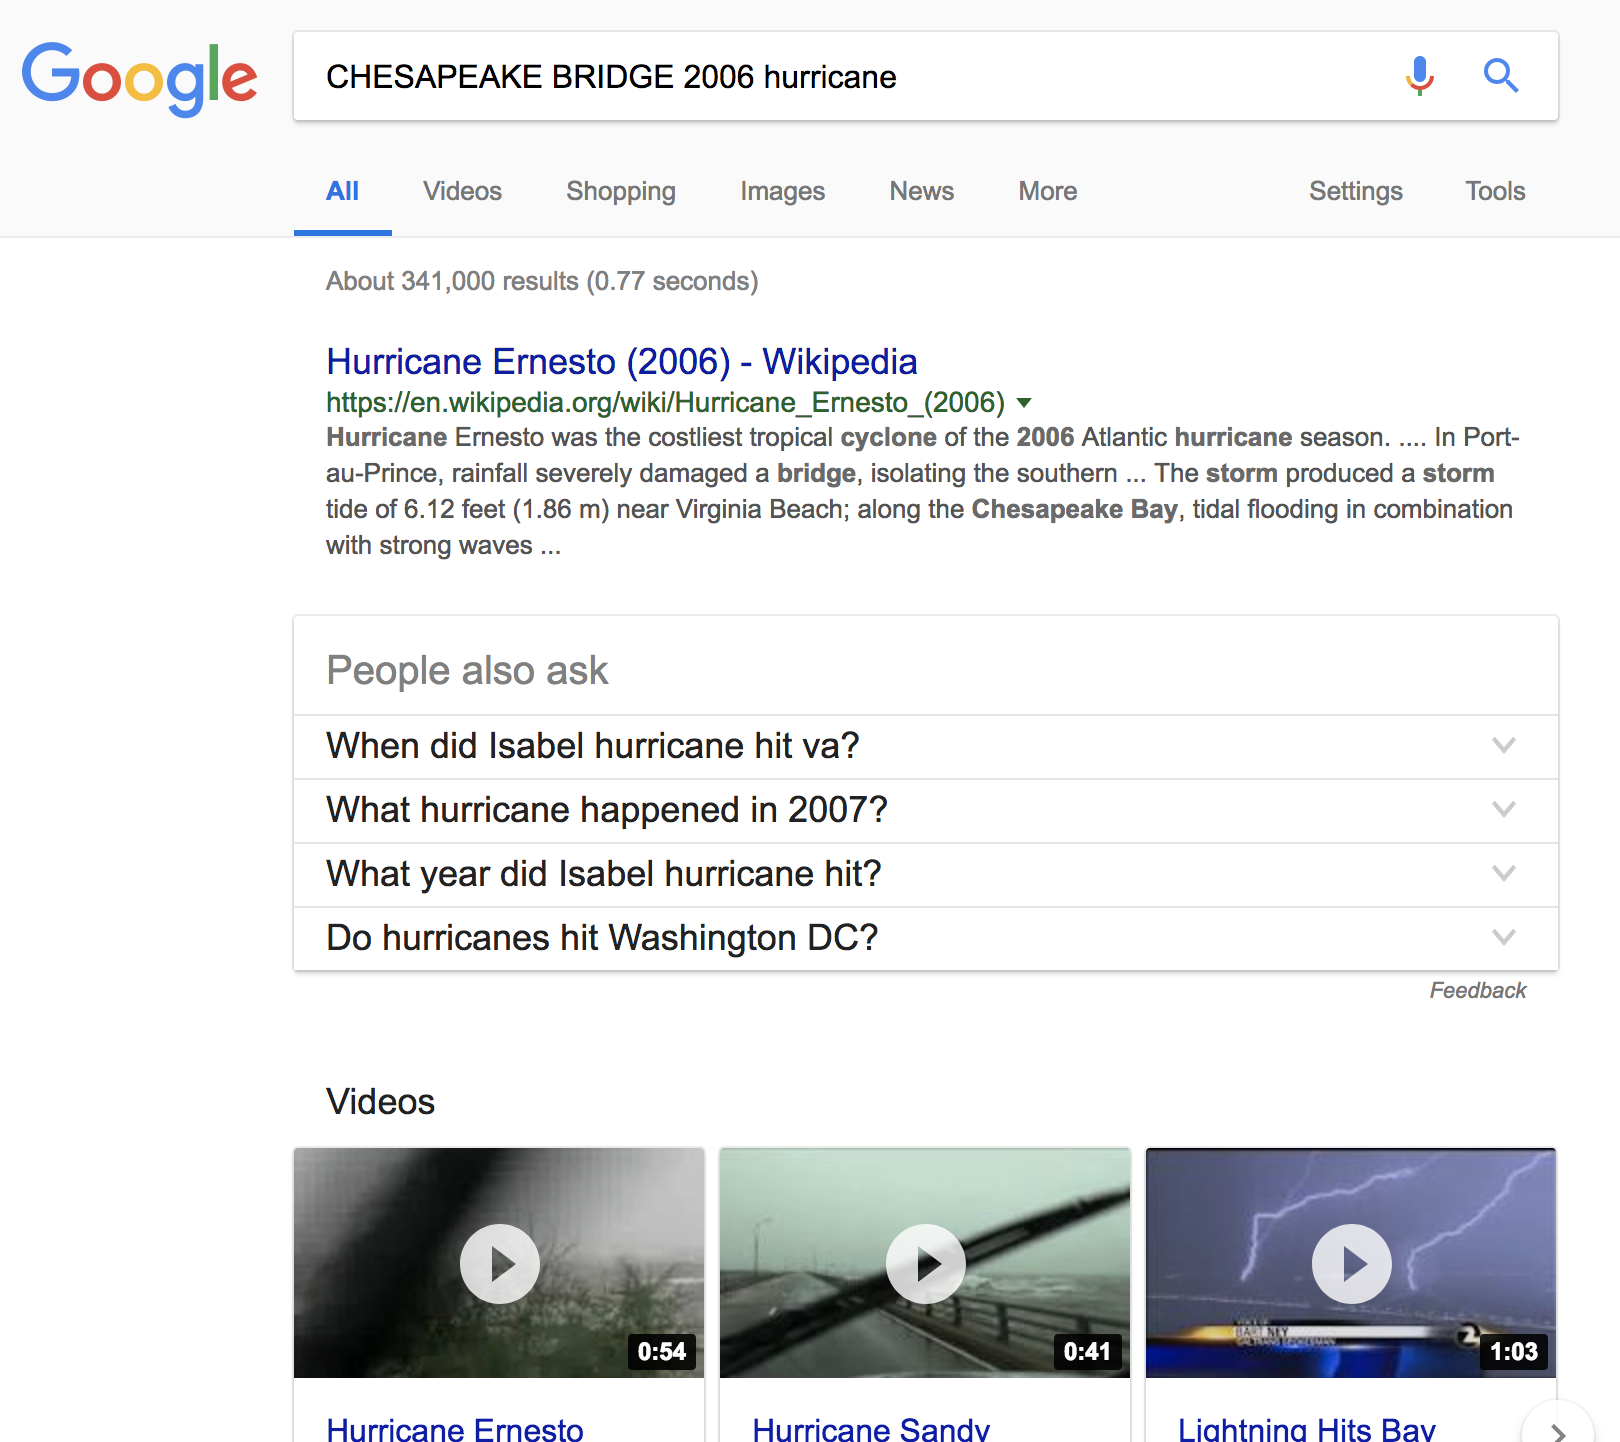
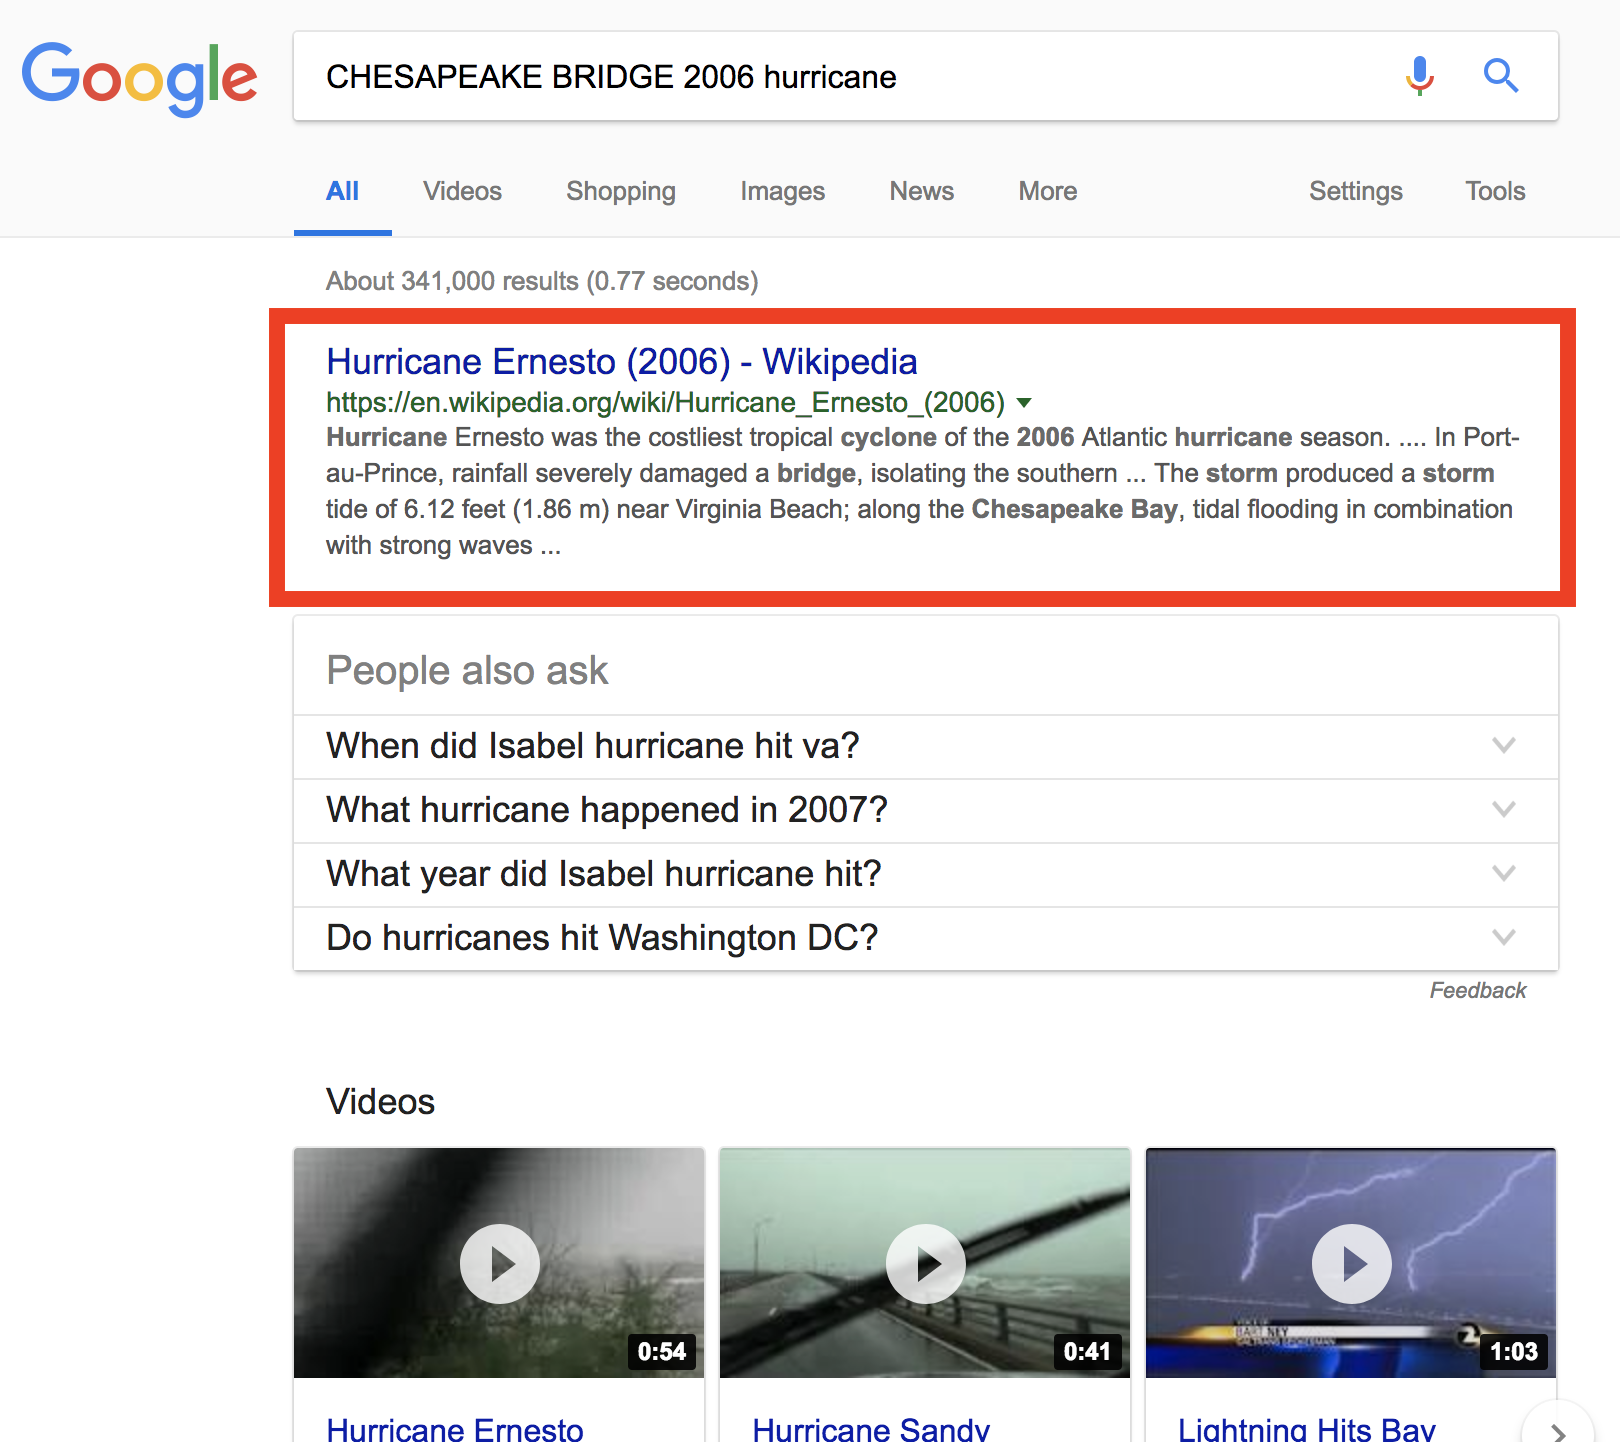
Add markers to news report

Changed region(s): [[0.1543, 0.1872, 0.9877, 0.4369]]

diff --git a/contents.md b/contents.md
@@ -547,9 +547,6 @@ The affected weather station is:
 ![detected_hurricane](images/detected_hurricane3.png)
 
 [NEXT]
-TODO: show news report of actual incident
-
-[NEXT]
 <!-- .slide: class="large-slide" -->
 ## Time Taken
 4 hours.
